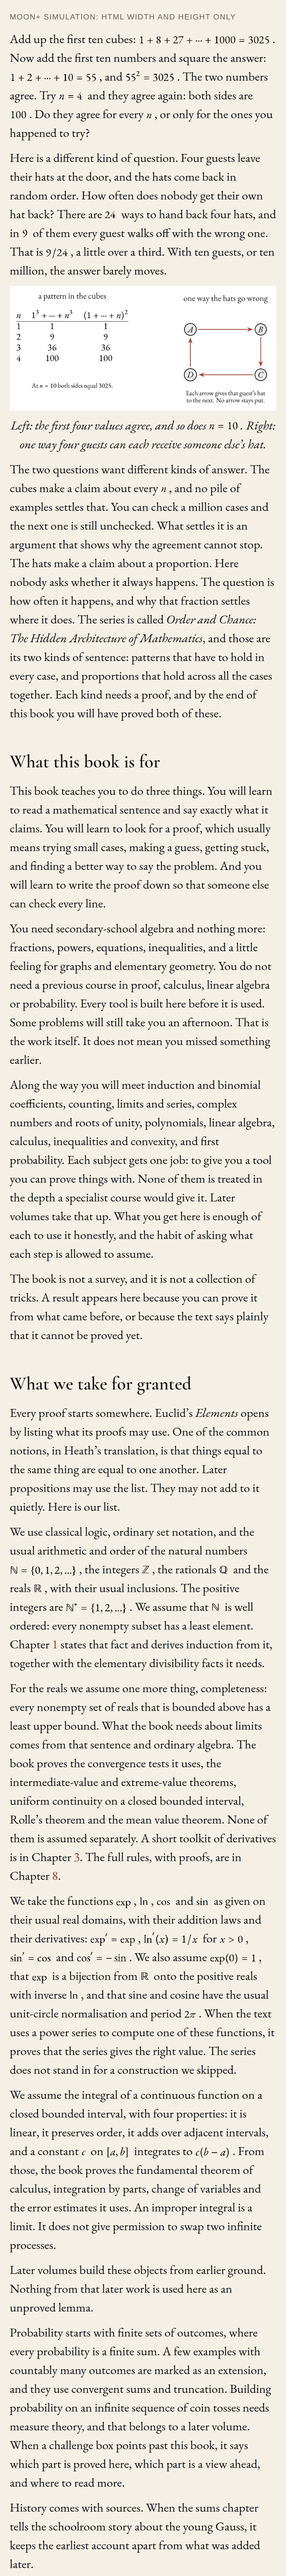
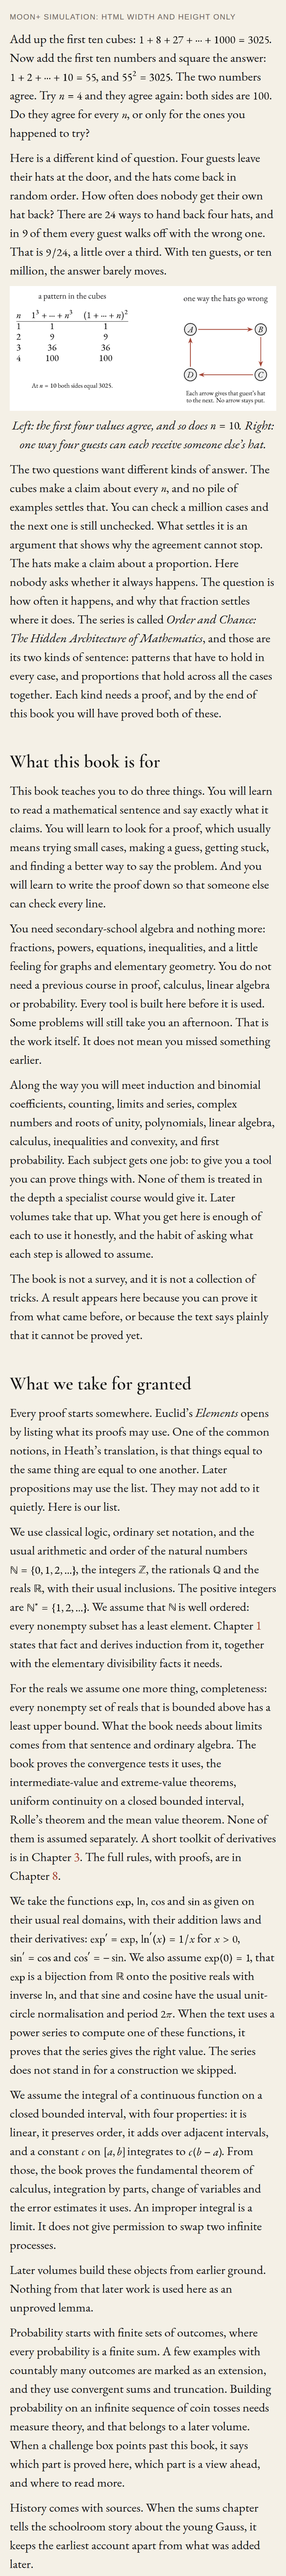
EPUB: trim formula PNG right padding so punctuation sits against formulas (#85)
* Stop Moon+ drawing short formulas at their bitmap size.

Every formula image now has HTML width and height in CSS pixels, an em height, and a max-height. Inline formulas stay inline, and the punctuation after one stays in a nowrap span. Display formulas are a centred block with that punctuation inside it. Bitmaps are about 2.5 times the display size, so a reader that ignores em widths cannot blow a single letter up to the screen.

* Replace the Moon+ review shots with renders whose images load.

The previous pair showed broken-image icons because the formula files
were not reachable. These are the unpacked Volume 1 preface and
"What we take for granted" pages at a 412 CSS px width: normal EPUB
CSS, and a Moon+ simulation that sizes each formula from its HTML
width and height only.

* Close the gap between a formula image and its punctuation.

The nowrap span already held the image and the period with no text
between them. The gap was transparent columns on the right of the PNG,
still inside the TeX width. Those columns are cropped and the width
shrinks by the same fraction, so 3025. and 55, sit against the ink.

---------

diff --git a/tools/test_epub_kindle.py b/tools/test_epub_kindle.py
@@ -3,6 +3,7 @@
 Run: python3 -m unittest discover -s tools -p test_epub_kindle.py
 Needs xelatex, pdftocairo and pandoc. Skipped when they are absent.
 """
+import io
 import re
 import shutil
 import subprocess
@@ -10,9 +11,12 @@ import unittest
 import zipfile
 from pathlib import Path
 
+from PIL import Image
+
 import check_epub_media
 import epub_fix
 import epub_math
+import epub_png
 
 
 ROOT = Path(__file__).resolve().parent.parent
@@ -60,6 +64,19 @@ class KindleMath(unittest.TestCase):
         self.assertIn('width="', tag)
         self.assertIn('height="', tag)
         self.assertNotIn("display:block", tag)
+
+    def test_right_padding_does_not_precede_punctuation(self):
+        glyph = epub_math.render_formulas([("100", False)])[("100", False)]
+        png, ratio = epub_png.fit_formula_png(glyph.png, glyph.height_em)
+        self.assertLess(ratio, 0.95)
+        image = Image.open(io.BytesIO(png)).convert("RGBA")
+        width, height = image.size
+        self.assertTrue(any(image.getpixel((width - 1, y))[3] > 0 for y in range(height)))
+        shown = epub_math.replace(glyph, width_em=glyph.width_em * ratio)
+        wrapped = epub_math.attach_punctuation(shown.html("m.png", "100") + " .")
+        self.assertIn('"/>.</span>', wrapped)
+        self.assertNotRegex(wrapped, r'"/>\s+[.,]')
+        self.assertLess(shown.width_em, glyph.width_em)
 
 
 @unittest.skipUnless(HAVE, "xelatex, pdftocairo and pandoc are required")
@@ -122,6 +139,34 @@ class KindleEpub(unittest.TestCase):
             self.assertNotIn("image/svg", manifest)
             epub_fix.main(str(book), str(figures))
             self.assertEqual(check_epub_media.check(book), [])
+
+
+class FormulaPadding(unittest.TestCase):
+    def test_transparent_right_columns_are_cropped(self):
+        image = Image.new("RGBA", (40, 12), (0, 0, 0, 0))
+        for x in range(4, 28):
+            for y in range(2, 10):
+                image.putpixel((x, y), (0, 0, 0, 255))
+        buf = io.BytesIO()
+        image.save(buf, format="PNG")
+        png, ratio = epub_png.fit_formula_png(buf.getvalue(), 0.4)
+        self.assertAlmostEqual(ratio, 28 / 40)
+        cropped = Image.open(io.BytesIO(png)).convert("RGBA")
+        self.assertEqual(cropped.size[0], 28)
+        self.assertTrue(any(cropped.getpixel((27, y))[3] > 0 for y in range(cropped.size[1])))
+
+    def test_punctuation_is_flush_with_the_image(self):
+        tag = (
+            '<img class="oc-math-inline" src="m.png" alt="100" width="28" height="12" '
+            'style="display:inline;width:1.7000em;height:0.7000em;max-width:100%;'
+            'max-height:0.7000em;vertical-align:-0.0500em"/>'
+        )
+        wrapped = epub_math.attach_punctuation(tag + " .\n")
+        self.assertIn('"/>.</span>', wrapped)
+        self.assertNotRegex(wrapped, r'"/>\s+[.,]')
+        display = epub_math.attach_punctuation(tag.replace("oc-math-inline", "oc-math-display") + ",")
+        self.assertIn('"/>,</div>', display)
+        self.assertNotIn(" ,", display)
 
 
 if __name__ == "__main__":

diff --git a/tools/epub_png.py b/tools/epub_png.py
@@ -2,8 +2,10 @@
 
 Formula ink is black with an alpha edge, so those files become a 16-level
 palette and are then repacked. Plates stay full colour: oxipng only, lossless,
-so coral and the other inks are the pixels the renderer drew. The TeX width
-and depth, which set the CSS, are untouched.
+so coral and the other inks are the pixels the renderer drew. The TeX depth,
+which sets the baseline, is untouched. Transparent columns on the right of a
+formula are cropped, and the caller shrinks the TeX width by the same fraction
+so the following punctuation sits against the ink.
 """
 from __future__ import annotations
 
@@ -73,24 +75,53 @@ def compress_plate(data: bytes) -> bytes:
         return out.read_bytes()
 
 
-def fit_formula_png(data: bytes, height_em: float) -> bytes:
+def trim_right_padding(image, alpha_floor: int = 0):
+    """Crop fully transparent columns from the right.
+
+    The preview border and the math list's right sidebearing are empty pixels
+    inside the TeX advance. They read as a gap before ``.`` or ``,``. The
+    returned fraction is the share of the width that remains, so the CSS width
+    can shrink with the bitmap instead of stretching the ink.
+    """
+    im = image.convert("RGBA")
+    width, height = im.size
+    if width <= 1 or height <= 0:
+        return im, 1.0
+    alpha = im.getchannel("A").load()
+    last = width - 1
+    while last > 0 and all(alpha[last, y] <= alpha_floor for y in range(height)):
+        last -= 1
+    kept = last + 1
+    if kept == width:
+        return im, 1.0
+    return im.crop((0, 0, kept, height)), kept / width
+
+
+def fit_formula_png(data: bytes, height_em: float) -> tuple[bytes, float]:
     """Keep the bitmap about 2.5 CSS pixels per displayed pixel, not 10.
 
     Moon+ draws an image at its intrinsic pixel size when it ignores em
     widths. A 480 ppi glyph is then several times the body. The HTML width
     and height are the real constraint; this stops the fallback being huge.
+    The second value is the fraction of the TeX width still occupied after
+    the right-hand transparent padding is removed.
     """
     import io
     from PIL import Image
     target_h = max(8, int(round(height_em * 16 * 2.5)))
     im = Image.open(io.BytesIO(data))
-    if im.height <= int(target_h * 1.25):
-        return data
-    target_w = max(1, int(round(im.width * target_h / im.height)))
-    im = im.resize((target_w, target_h), Image.Resampling.LANCZOS)
+    im, ratio = trim_right_padding(im)
+    resized = im.height > int(target_h * 1.25)
+    if resized:
+        target_w = max(1, int(round(im.width * target_h / im.height)))
+        im = im.resize((target_w, target_h), Image.Resampling.LANCZOS)
+        im, extra = trim_right_padding(im)
+        ratio *= extra
+    if ratio == 1.0 and not resized:
+        return data, 1.0
     buf = io.BytesIO()
     im.save(buf, format="PNG", optimize=True)
-    return compress_math(buf.getvalue())
+    return compress_math(buf.getvalue()), ratio
 
 
 def compress_math_many(images: list[bytes]) -> list[bytes]:

diff --git a/tools/epub_math.py b/tools/epub_math.py
@@ -11,8 +11,11 @@ KF8 and KFX do honor ``width`` and ``vertical-align`` on a PNG, in em. Each
 formula is set with the book's Garamond-Math face, measured with TeX, and
 shipped as a transparent PNG whose width is the TeX width in em and whose
 ``vertical-align`` is the TeX depth (plus a hair of padding) below the
-baseline. The ink then sits on the same line as the surrounding words, and
-both the size and the shift follow the reader's font size.
+baseline. Empty columns on the right of that bitmap are cropped and the
+width shrinks with them, so a following period or comma is not stranded
+after a transparent margin. The ink then sits on the same line as the
+surrounding words, and both the size and the shift follow the reader's
+font size.
 
 SVG math would repeat the figure bug: Kindle treats an SVG viewBox as pixels
 and often drops ``vertical-align``. Exact alignment on the Paperwhite is the
@@ -29,7 +32,7 @@ import re
 import shutil
 import subprocess
 import tempfile
-from dataclasses import dataclass
+from dataclasses import dataclass, replace
 from pathlib import Path
 
 import epub_png
@@ -364,6 +367,7 @@ def attach_punctuation(text: str) -> str:
                 + img + punct + "</div>" + ("" if punct else spaces)
             )
         if punct:
+            # No text node, newline or space between the image and its period.
             return f'<span class="oc-math-keep" style="white-space:nowrap">{img}{punct}</span>'
         return img + spaces
     return _FORMULA_IMG.sub(repl, text)
@@ -377,7 +381,9 @@ def replace_math(text: str, glyphs: dict[tuple[str, bool], Glyph], page: str, pa
 
     def src_for(tex: str, display: bool) -> tuple[str, Glyph]:
         glyph = glyphs[(tex, display)]
-        png = epub_png.fit_formula_png(glyph.png, glyph.height_em)
+        png, ratio = epub_png.fit_formula_png(glyph.png, glyph.height_em)
+        if ratio != 1.0:
+            glyph = replace(glyph, width_em=glyph.width_em * ratio)
         digest = hashlib.sha256(png).digest()
         zip_name = shared.get(digest)
         if zip_name is None:
